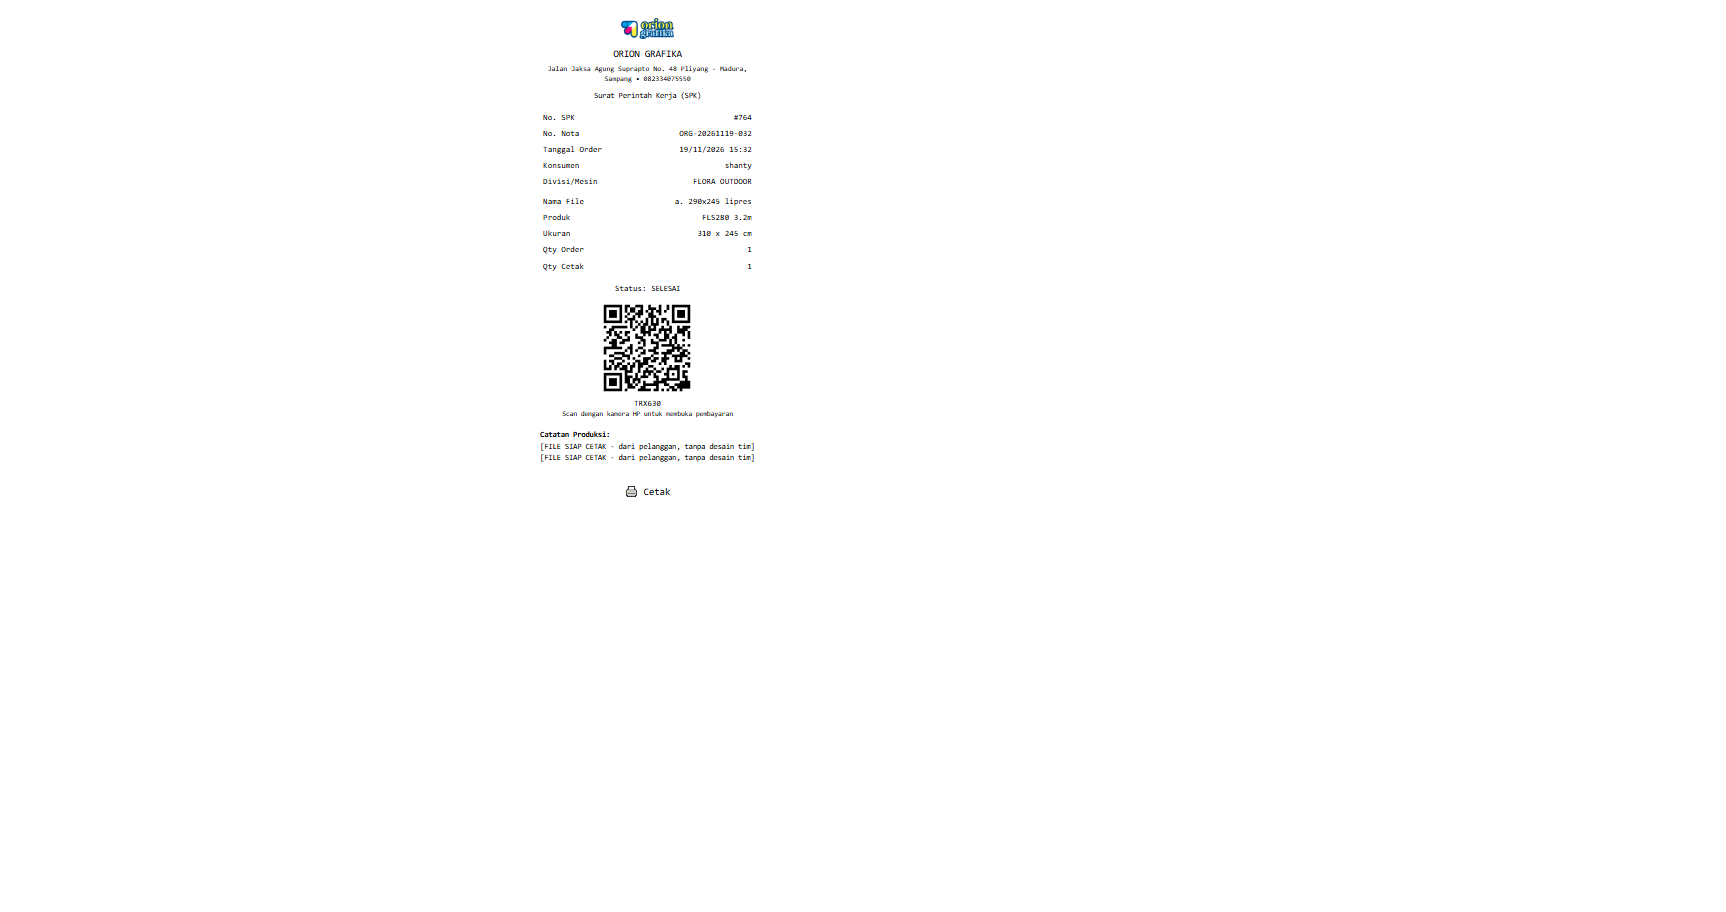
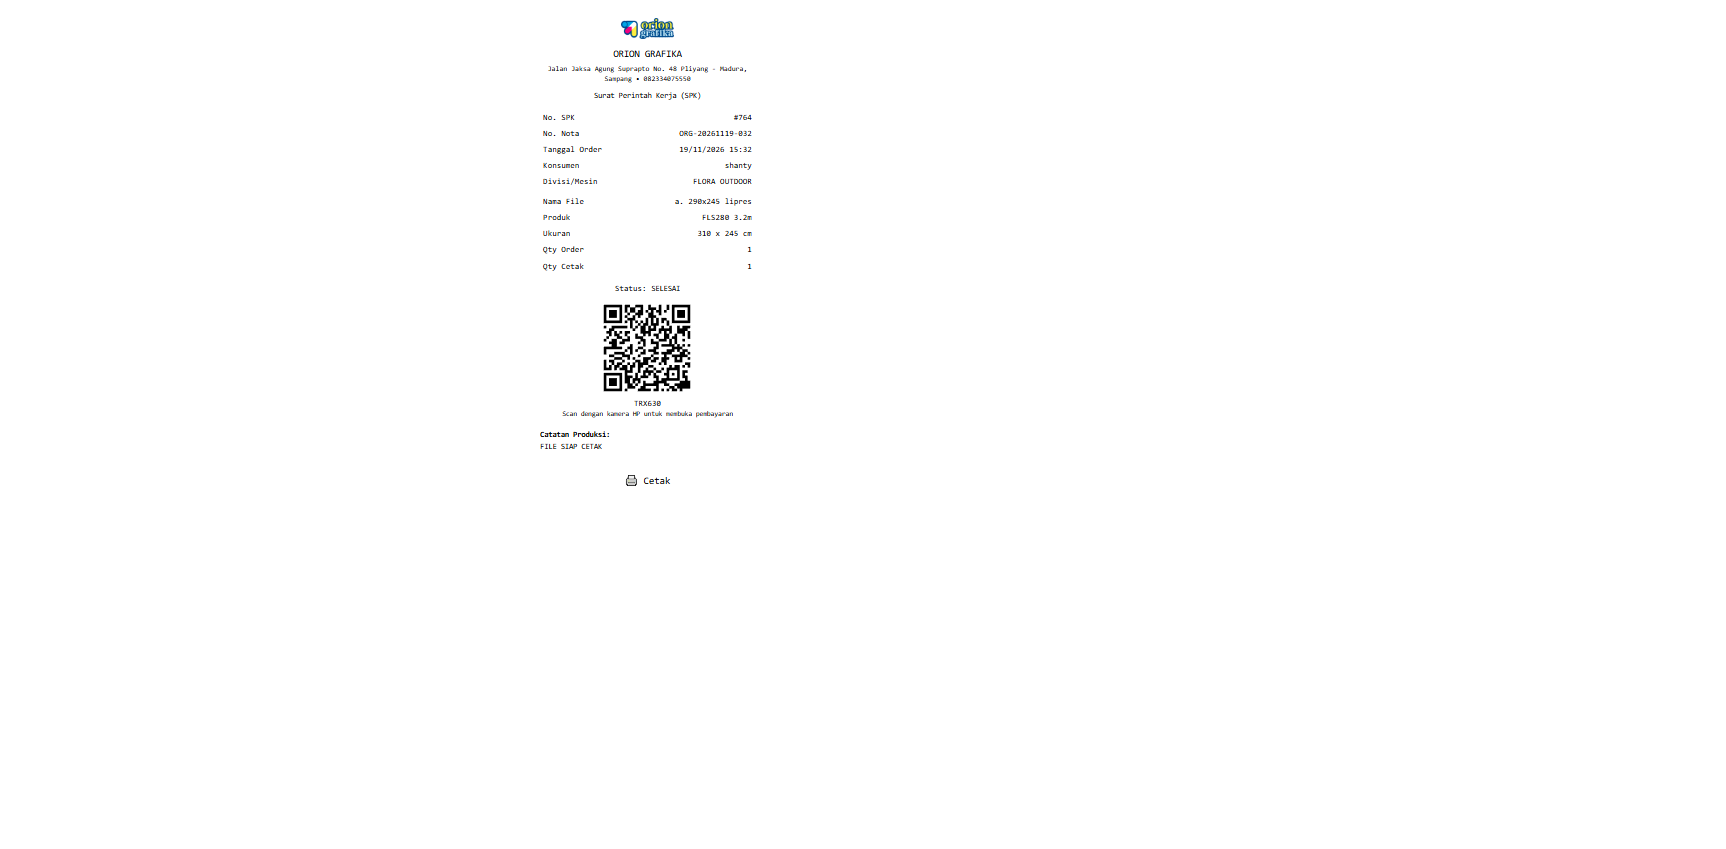
fix(spk): keterangan desain dicetak ringkas (FILE SIAP CETAK), tanpa kalimat panjang di nota/SPK thermal - helper ket_ringkas dipakai daftar kerja dan SPK per item

Changed region(s): [[0.3071, 0.1225, 0.4299, 0.5512], [0.3071, 0.0, 0.4299, 0.1225], [0.3992, 0.1225, 0.4606, 0.2756]]

diff --git a/resources/views/spk/print-semua.blade.php b/resources/views/spk/print-semua.blade.php
@@ -16,7 +16,7 @@
         .item-daftar .meta { font-size: {{ $format === 'thermal' ? '11.5px' : '12px' }}; color: var(--ink-600); }
         /* Qty dan status menempel pada nama file selama masih muat; bila
            tidak muat ia pindah utuh ke baris berikutnya, tidak terpotong
-           di tengah ("qty 1 ·" di ujung baris). */
+           di tengah. */
         .meta-inline {
             font-size: {{ $format === 'thermal' ? '11px' : '11.5px' }};
             font-weight: 400;
@@ -37,19 +37,6 @@
 <body>
     @php
         $nota = $details->first();
-
-        // Keterangan desain kadang tersimpan berulang di database (penanda
-        // seperti "[FILE SIAP CETAK ...]" tertulis dua kali karena pernah
-        // ditambahkan lebih dari sekali). Untuk cetakan, penanda yang sama
-        // cukup tampil sekali; isi database tidak diubah.
-        $ketDesain = function ($teks) {
-            $teks = trim((string) $teks);
-            if ($teks === '' || ! preg_match_all('/\[[^\]]+\]/', $teks, $cocok) || count($cocok[0]) < 2) {
-                return $teks;
-            }
-            $sisa = trim(preg_replace('/\[[^\]]+\]/', ' ', $teks));
-            return trim(implode(' ', array_unique($cocok[0])) . ($sisa !== '' ? ' ' . $sisa : ''));
-        };
     @endphp
     <div class="sheet">
         @include('partials.print-header', ['docTitle' => 'Daftar Kerja SPK'])
@@ -59,7 +46,7 @@
         <div class="center" style="margin: 6px 0 2px;">
             <div id="qr-spk-nota" style="display:inline-block"></div>
             <div style="font-size:10px; letter-spacing:0.5px; margin-top:2px;">TRX{{ $nota->id_transaksi }}</div>
-            <div style="font-size:9px; color:var(--color-slate-500);">Scan: seluruh item nota ini tampil</div>
+            <div style="font-size:9px; color:var(--color-slate-500);">Scan: semua item nota</div>
         </div>
 
         <div class="divider"></div>
@@ -81,8 +68,8 @@
             @foreach($details->values() as $i => $detail)
             <div class="item-daftar">
                 <div class="nama">{{ $i + 1 }}. {{ $detail->nama_file }}<span class="meta-inline"> &middot; qty {{ angka($detail->qty, 4) }} &middot; {{ $detail->status_spk }}@if($detail->status_urgent) (URGENT)@endif</span></div>
-                @if($ketDesain($detail->catatan_produksi) !== '')
-                <div class="meta">Ket: {{ $ketDesain($detail->catatan_produksi) }}</div>
+                @if(ket_ringkas($detail->catatan_produksi) !== '')
+                <div class="meta">Ket: {{ ket_ringkas($detail->catatan_produksi) }}</div>
                 @endif
             </div>
             @endforeach
@@ -100,7 +87,7 @@
                     <tr>
                         <td>{{ $i + 1 }}</td>
                         <td>{{ $detail->nama_file }}<span class="meta-inline"> &middot; qty {{ angka($detail->qty, 4) }} &middot; {{ $detail->status_spk }}@if($detail->status_urgent) (URGENT)@endif</span></td>
-                        <td>{{ $ketDesain($detail->catatan_produksi) ?: '-' }}</td>
+                        <td>{{ ket_ringkas($detail->catatan_produksi) ?: '-' }}</td>
                     </tr>
                     @endforeach
                 </tbody>
@@ -109,7 +96,7 @@
     </div>
 
     <div class="no-print">
-        <button onclick="window.print()">🖨 Cetak Daftar SPK</button>
+        <button onclick="window.print()">Cetak Daftar SPK</button>
     </div>
 
     <script src="{{ asset('vendor/qrcode-generator/qrcode.min.js') }}"></script>

diff --git a/app/helpers.php b/app/helpers.php
@@ -32,3 +32,40 @@ if (!function_exists('angka_input')) {
         return Angka::input($nilai, $maks);
     }
 }
+
+if (!function_exists('ket_ringkas')) {
+    /**
+     * Keterangan desain versi cetak. Penanda sistem yang panjang -
+     * "[FILE SIAP CETAK - dari pelanggan, tanpa desain tim]" - dicetak
+     * sebagai "FILE SIAP CETAK" saja, dan penanda yang tersimpan berulang
+     * ditulis sekali. Teks lain dibiarkan apa adanya: catatan produksi
+     * yang diketik orang adalah instruksi, bukan hiasan, jadi tidak
+     * dipotong. Hanya untuk tampilan - isi database tidak diubah.
+     */
+    function ket_ringkas(?string $teks): string
+    {
+        $teks = trim((string) $teks);
+        if ($teks === '') {
+            return '';
+        }
+
+        $penanda = [];
+        if (preg_match_all('/\[([^\]]+)\]/', $teks, $cocok)) {
+            foreach (array_unique($cocok[1]) as $isi) {
+                // Buang keterangan tambahan setelah tanda pisah:
+                // "FILE SIAP CETAK - dari pelanggan, tanpa desain tim".
+                $penanda[] = trim(preg_replace('/\s+-\s+.*$/', '', $isi));
+            }
+            $teks = preg_replace('/\[[^\]]+\]/', ' ', $teks);
+        }
+
+        $penanda = array_filter($penanda);
+        $teks = trim($teks);
+
+        if ($penanda !== []) {
+            $teks = implode(' · ', $penanda) . ($teks !== '' ? ' · ' . $teks : '');
+        }
+
+        return trim(preg_replace('/\s+/', ' ', $teks));
+    }
+}

diff --git a/tests/Feature/KetProduksiRingkasTest.php b/tests/Feature/KetProduksiRingkasTest.php
@@ -1,0 +1,44 @@
+<?php
+
+namespace Tests\Feature;
+
+use Tests\TestCase;
+
+/**
+ * Keterangan desain versi cetak: penanda sistem yang panjang dipendekkan
+ * menjadi "FILE SIAP CETAK", penanda ganda ditulis sekali, dan catatan
+ * produksi yang diketik orang tidak dipotong.
+ */
+class KetProduksiRingkasTest extends TestCase
+{
+    public function test_penanda_siap_cetak_dipendekkan(): void
+    {
+        $this->assertSame(
+            'FILE SIAP CETAK',
+            ket_ringkas('[FILE SIAP CETAK - dari pelanggan, tanpa desain tim] ')
+        );
+    }
+
+    public function test_penanda_ganda_ditulis_sekali(): void
+    {
+        $this->assertSame(
+            'FILE SIAP CETAK',
+            ket_ringkas('[FILE SIAP CETAK - dari pelanggan, tanpa desain tim] [FILE SIAP CETAK - dari pelanggan, tanpa desain tim]')
+        );
+    }
+
+    public function test_catatan_orang_tetap_utuh(): void
+    {
+        $this->assertSame('lipat jadi 3, jilid lem panas', ket_ringkas('lipat jadi 3, jilid lem panas'));
+        $this->assertSame(
+            'FILE SIAP CETAK · lipat jadi 3',
+            ket_ringkas('[FILE SIAP CETAK - dari pelanggan, tanpa desain tim] lipat jadi 3')
+        );
+    }
+
+    public function test_kosong_tetap_kosong(): void
+    {
+        $this->assertSame('', ket_ringkas(null));
+        $this->assertSame('', ket_ringkas('   '));
+    }
+}

diff --git a/resources/views/spk/_spk-sheet.blade.php b/resources/views/spk/_spk-sheet.blade.php
@@ -63,10 +63,10 @@
             <div style="font-size:9px; color:var(--color-slate-500);">Scan dengan kamera HP untuk membuka pembayaran</div>
         </div>
 
-        @if($detail->catatan_produksi)
+        @if(ket_ringkas($detail->catatan_produksi) !== '')
         <div class="catatan">
             <strong>Catatan Produksi:</strong><br>
-            {{ $detail->catatan_produksi }}
+            {{ ket_ringkas($detail->catatan_produksi) }}
         </div>
         @endif
 

diff --git a/docs/reviews/SPK_GABUNGAN_SEMUA_ITEM.md b/docs/reviews/SPK_GABUNGAN_SEMUA_ITEM.md
@@ -61,7 +61,7 @@ dirapatkan. Tiap item ditulis satu baris:
 
 ```
 1. a. 290x245 lipres · qty 1 · Selesai
-   Ket: [FILE SIAP CETAK - dari pelanggan, tanpa desain tim]
+   Ket: FILE SIAP CETAK
 ```
 
 Qty dan status **menempel pada nama file** selama masih muat; bila tidak
@@ -74,9 +74,21 @@ Blok tanda tangan **Diambil Oleh / Diperiksa Oleh dihapus** dari daftar —
 lembar ini dibagikan ke tim produksi dan tidak diarsipkan sebagai bukti
 serah-terima; SPK per item tetap memilikinya.
 
-Keterangan desain yang tersimpan berulang di database (penanda
-`[FILE SIAP CETAK …]` tertulis dua kali) ditampilkan **sekali** saat cetak.
-Hanya tampilan yang dirapikan — isi database tidak diubah.
+### Teks panjang tidak dicetak
+
+`ket_ringkas()` di `app/helpers.php` merapikan keterangan desain **saat
+dicetak** (isi database tidak diubah):
+
+| Tersimpan | Dicetak |
+|---|---|
+| `[FILE SIAP CETAK - dari pelanggan, tanpa desain tim]` | `FILE SIAP CETAK` |
+| penanda itu dua kali | `FILE SIAP CETAK` (sekali) |
+| `[FILE SIAP CETAK …] lipat jadi 3` | `FILE SIAP CETAK · lipat jadi 3` |
+
+Dipakai di daftar kerja **dan** SPK per item (`spk/_spk-sheet.blade.php`),
+jadi nota/SPK thermal tidak lagi memuat kalimat panjang. Catatan produksi
+yang diketik orang tetap utuh — itu instruksi kerja, bukan hiasan.
+Keterangan barcode juga dipendekkan: `Scan: semua item nota`.
 
 ## Bukti visual (browser nyata, dev lokal)
 
@@ -95,6 +107,7 @@ Hanya tampilan yang dirapikan — isi database tidak diubah.
 | `php -l` SpkController, JerseyOrderController, routes/web.php | PASS |
 | `php artisan view:cache` | PASS |
 | `SpkLengkapTest, SpkFilterTanggalTest, BatalSpkHppTest, AksesLengkapDanQrTest, AlurKeamananTest, MatriksRuteKeamananTest` | 46 test / 183 assertion — PASS |
+| `HargaSiapCetakTest, KetProduksiRingkasTest` | 10 test — PASS (56 test / 226 assertion bila digabung dengan enam di atas) |
 | `--filter "JerseyOrder|Jersey"` | 4 error + 7 gagal, **sama persis dengan baseline HEAD** (pre-existing) |
 | Cetak per item (`/spk/764/print/thermal`, `/jersey/37/lines/151/spk`) | PASS, tidak berubah |
 
